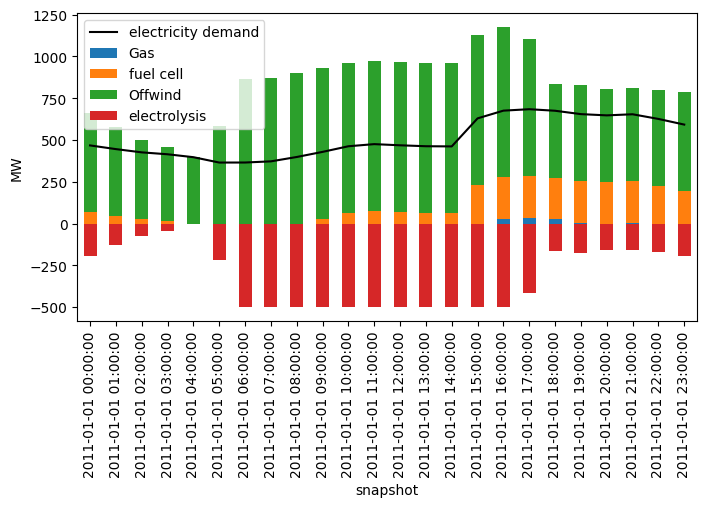
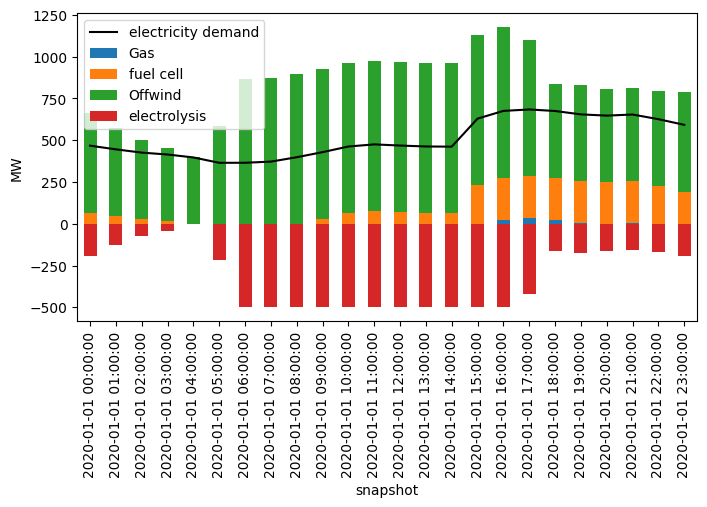
Refactor pypsa to use csvs instead of example
To easily obtain the csv's, we use the pyprojroot package,
which would detect subfolder 'pypsa' as project root because of
the 'requirements.txt' file.
To solve this, we rename each subfolder's requirements.txt to be project
specific, and adjust the README instructions accordingly

diff --git a/pypsa/hydrogen_bypass.py b/pypsa/hydrogen_bypass.py
@@ -1,53 +1,48 @@
-import pypsa
-import numpy as np
 import matplotlib.pyplot as plt
+import numpy as np
+import pandas as pd
+from pyprojroot import here
+import pypsa
 
 plt.rc("figure", figsize=(8, 4))
 
 
 def pre_bypass_network():
-    # TODO: factor out example network k
-    # import timesteps from existing model (24 snapshots)
-    k = pypsa.examples.scigrid_de(from_master=True)
-    timestep = k.snapshots
+    wind_resources = pd.read_csv(here('timeseries_data/wind_resource.csv'), index_col=0, parse_dates=True)
+    wind_max_capacity = wind_resources['windlocation'].max()
+    wind_capacity_factors = wind_resources['windlocation'] / wind_max_capacity
 
     n = pypsa.Network()
-    n.set_snapshots(timestep)
+    n.set_snapshots(wind_resources.index)
 
     n.add("Bus", "Bus 1", x=9.11321, y=52.543853, v_nom=220.0)
     n.add("Bus", "Bus 2", x=9.522576, y=52.360409, v_nom=220.0)
-    n.add("Line", 'Line1-2', bus0='Bus 1', bus1='Bus 2', s_nom=400, type='Al/St 240/40 2-bundle 220.0', length=43.379, num_parallel=1)
+    n.add("Line", 'Line1-2', bus0='Bus 1', bus1='Bus 2', s_nom=400,
+          type='Al/St 240/40 2-bundle 220.0', length=43.379, num_parallel=1)
 
-    cost_variable = k.generators.marginal_cost['218 Wind Offshore'] + 5
-    capacity_factors = np.array(k.generators_t.p_max_pu.loc[:,'218 Wind Offshore'])
-    capacity = k.generators.groupby('carrier').p_nom.max()['Wind Offshore']
     n.add(
         'Generator', "Offwind",
         bus='Bus 1',
         carrier='Offwind',
         efficiency=1,
-        marginal_cost=cost_variable,  # 5 euro/MWh
-        p_max_pu=capacity_factors,
-        p_nom=capacity,  # 1447.20 MW
+        marginal_cost=5,  # 5 euro/MWh
+        p_max_pu=wind_capacity_factors,
+        p_nom=wind_max_capacity,  # 1447.20 MW
     )
 
-    capacity_gas = k.generators.groupby('carrier').p_nom.max().loc['Gas']/5
-    cost_gas = k.generators.marginal_cost['1 Gas'] - 10
     n.add(
         'Generator', 'Gas',
         bus='Bus 2',
         carrier='Gas',
         efficiency=0.58,
-        p_nom=capacity_gas,  # ~460 MW
-        marginal_cost=cost_gas,  # 40 euro/MWh
+        p_nom=460,  # 460 MW
+        marginal_cost=40,  # 40 euro/MWh
     )
 
-    # TODO: factor out example network k
-    loads = k.loads_t.p_set.sum(axis=1)/100  # peak of  684.2480 at 17:00:00
-    # We modify the load time series such that there is a mismatch between peak generation (from wind) and peak demand
-    loads.iloc[0:15] -= 50
-    loads.iloc[15:] += 100
-    n.add("Load", 'electricity demand', bus='Bus 2', p_set=loads)
+    # demand is stored as negative values for calliope, but PyPSA expects positive
+    demand = pd.read_csv(here('timeseries_data/demand.csv'), index_col=0, parse_dates=True)['city'] * -1
+    demand.name = None
+    n.add("Load", 'electricity demand', bus='Bus 2', p_set=demand)
 
     return n
 
@@ -74,7 +69,6 @@ def bypass_network():
 def simulate_pre_bypass():
     n1 = pre_bypass_network()
     n1.optimize(solver_name='glpk')
-
     plot_pre_bypass_power(n1)
 
 

diff --git a/README.md b/README.md
@@ -23,11 +23,11 @@ In the extended model, usage of the gas power plant is reduced to a minimum, wit
 
 After cloning the repository, it is recommended to create a separate Python environment for each framework.
 Popular examples include Conda, venv/virtualenv and pyenv.
-The relevant dependencies are listed in a `requirements.txt` per framework folder and can be installed as follows:
+The relevant dependencies are listed in a `<FRAMEWORK_NAME>-requirements.txt` per framework folder and can be installed as follows:
 ```bash
-cd FRAMEWORK_NAME
+cd <FRAMEWORK_NAME>
 # activate your favorite (virtual) environment
-pip install -r requirements.txt
+pip install -r <FRAMEWORK_NAME>-requirements.txt
 ```
 
 ### Using a single environment
